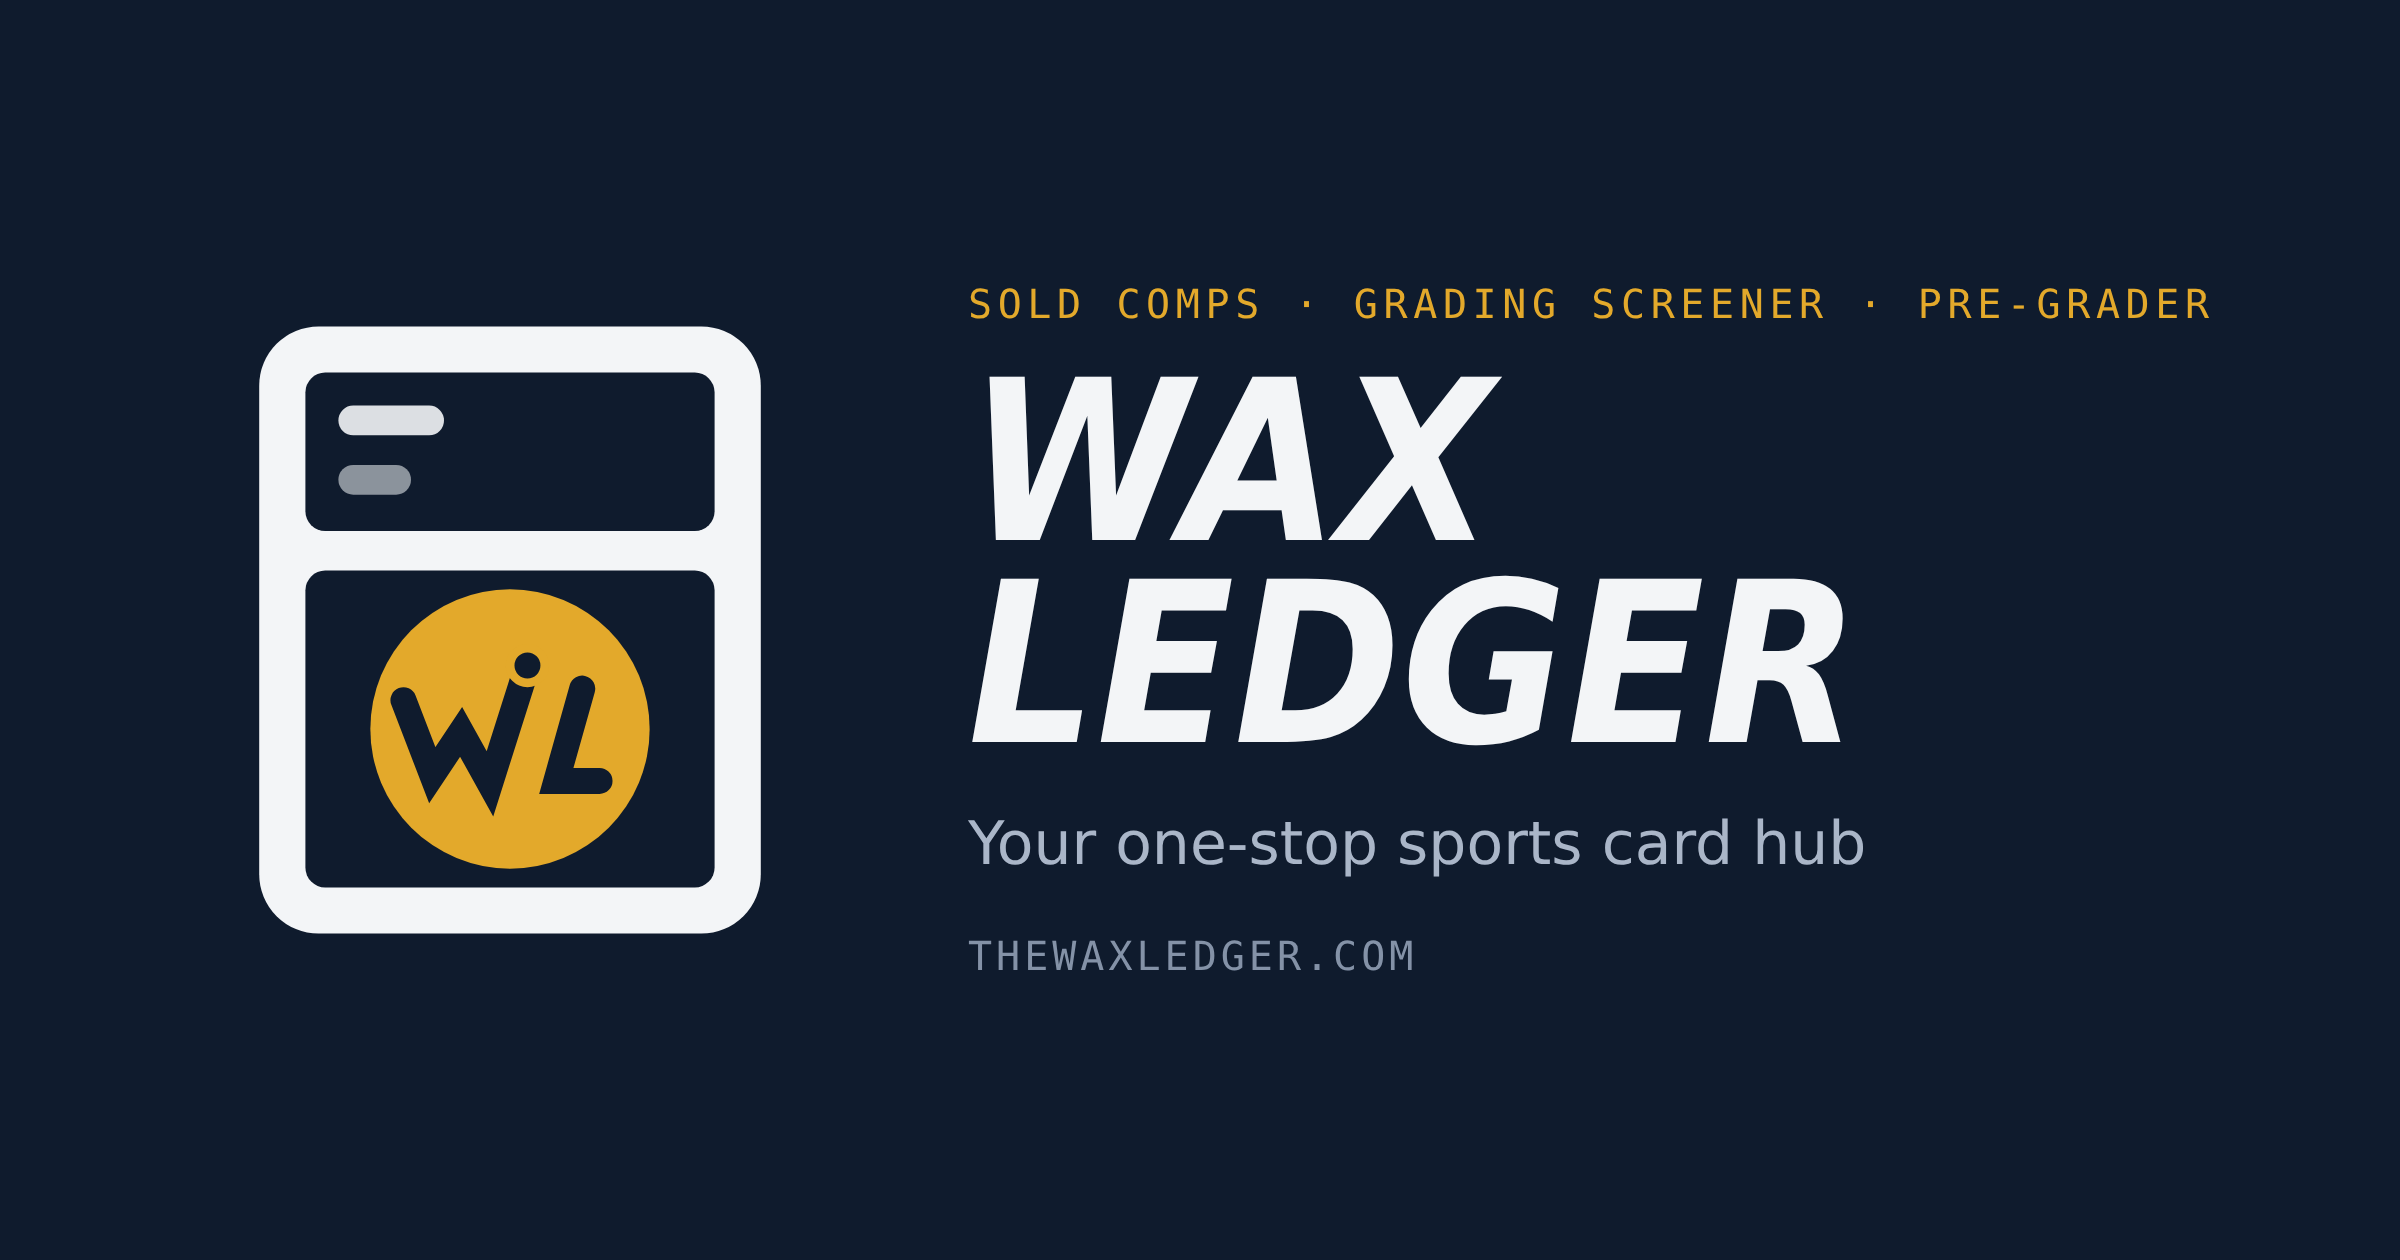
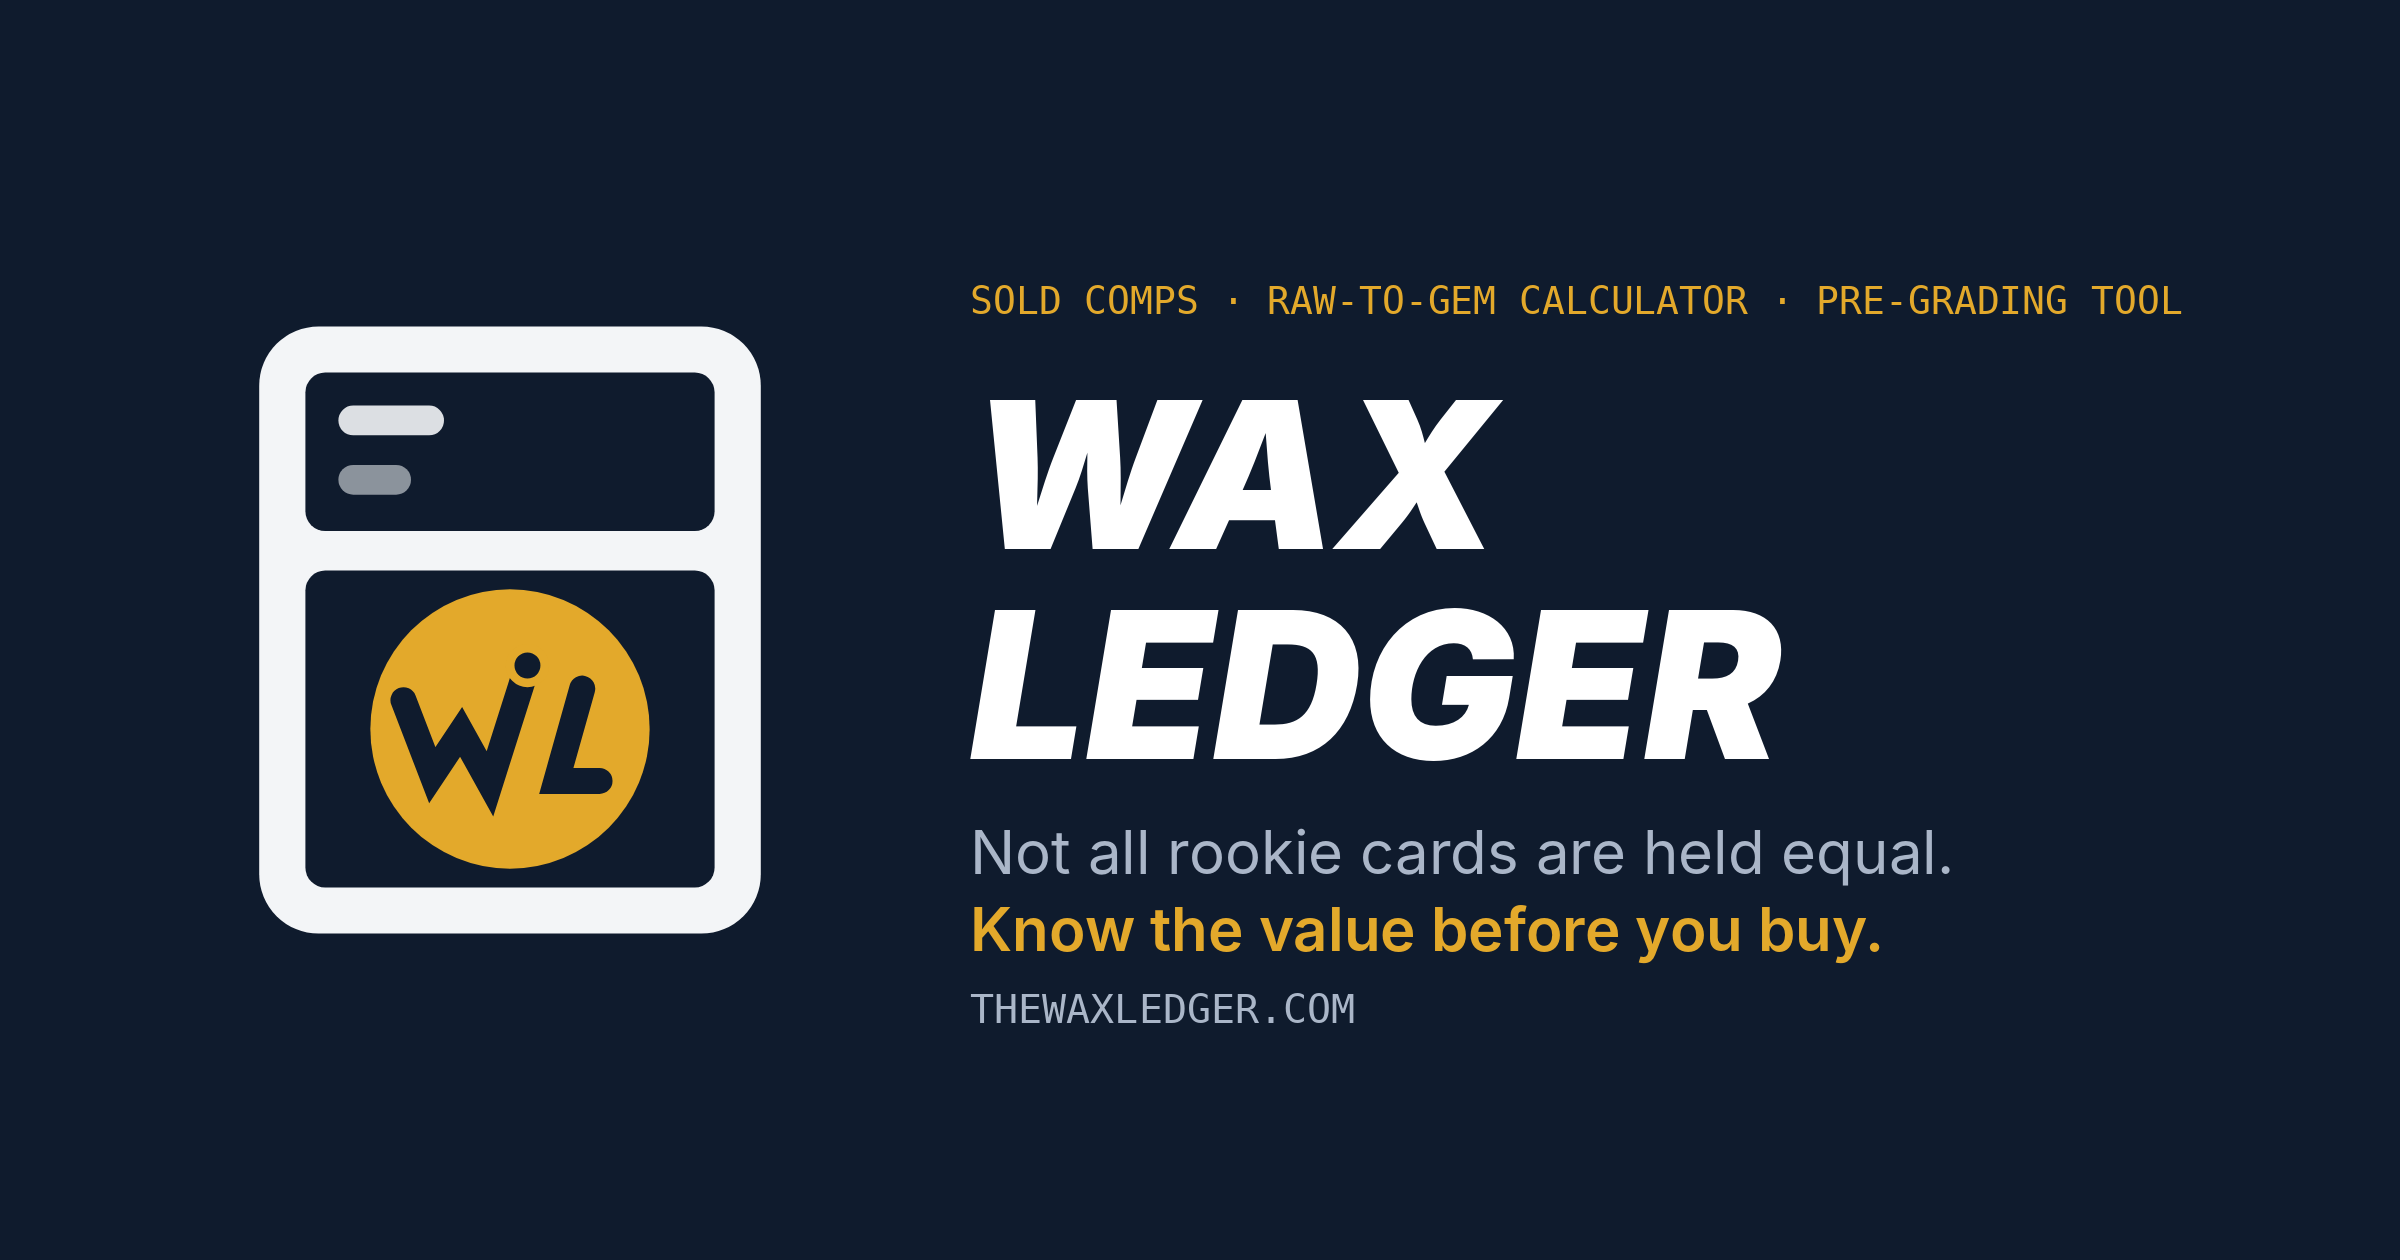
Tagline: "Not all rookie cards are held equal. Know the value before you buy."
- Hero h1 (two lines, second in gold), h1 size tightened for the longer line; OG and Twitter descriptions and the
  OG image redrawn with the new tagline and the current tool names.
- Chrome vs Chrome Update social image: last row removed (Aidan).

Claude-Session: https://claude.ai/code/session_01TnUKq6V3CGziVKCMggmfJU

Changed region(s): [[0.4062, 0.2786, 0.7812, 0.619], [0.4062, 0.65, 0.8125, 0.8357], [0.4062, 0.2167, 0.9375, 0.2476]]

diff --git a/public/index.html b/public/index.html
@@ -15,16 +15,16 @@
 <meta property="og:type" content="website">
 <meta property="og:site_name" content="Wax Ledger">
 <meta property="og:title" content="Wax Ledger">
-<meta property="og:description" content="Your one-stop sports card hub. Sold comps, a raw-to-gem calculator on real sales, a pre-grading tool that runs in your browser, and the release calendar.">
+<meta property="og:description" content="Not all rookie cards are held equal. Know the value before you buy: sold comps, a Raw-to-Gem Calculator on real PSA sales, a Pre-Grading Tool that runs in your browser, and the release calendar.">
 <meta property="og:url" content="https://thewaxledger.com/">
 <meta property="og:image" content="https://thewaxledger.com/og-image.png">
 <meta property="og:image:width" content="2400">
 <meta property="og:image:height" content="1260">
-<meta property="og:image:alt" content="Wax Ledger logo with the tagline Your one-stop sports card hub">
+<meta property="og:image:alt" content="Wax Ledger logo with the tagline Not all rookie cards are held equal. Know the value before you buy.">
 <meta name="twitter:card" content="summary_large_image">
 <meta name="twitter:site" content="@thewaxledger">
 <meta name="twitter:title" content="Wax Ledger">
-<meta name="twitter:description" content="Your one-stop sports card hub. Sold comps, a raw-to-gem calculator on real sales, a pre-grading tool that runs in your browser, and the release calendar.">
+<meta name="twitter:description" content="Not all rookie cards are held equal. Know the value before you buy: sold comps, a Raw-to-Gem Calculator on real PSA sales, a Pre-Grading Tool that runs in your browser, and the release calendar.">
 <meta name="twitter:image" content="https://thewaxledger.com/og-image.png">
 </head>
 <body>
@@ -75,7 +75,8 @@ button,input,select{font:inherit;color:inherit}
 .eyebrow{font-family:var(--mono);font-size:11.5px;letter-spacing:.09em;text-transform:uppercase;color:var(--ink-3)}
 h1,h2,h3,p{margin:0}
 h1,h2{font-family:var(--display);text-transform:uppercase;text-wrap:balance;letter-spacing:.005em}
-h1{font-weight:800;font-size:clamp(2.6rem,6.4vw,4.4rem);line-height:.94}
+h1{font-weight:800;font-size:clamp(2.4rem,5vw,3.5rem);line-height:.96}
+h1 .h1-sub{display:inline-block;margin-top:.18em;font-size:.62em;font-weight:700;color:var(--gold)}
 h2{font-weight:700;font-size:clamp(1.7rem,3.2vw,2.15rem);line-height:1}
 h3{font-size:1rem;font-weight:600;line-height:1.3}
 .lede{color:var(--ink-2);font-size:1.05rem;max-width:56ch}
@@ -599,7 +600,7 @@ footer{border-top:1px solid var(--line);padding-block:28px 40px;color:var(--ink-
   <div class="hero">
     <div class="hero-copy">
       <p class="eyebrow">Sold comps · Raw-to-Gem Calculator · Pre-Grading Tool · Release calendar</p>
-      <h1>Your one-stop sports card hub</h1>
+      <h1>Not all rookie cards are held equal.<br><span class="h1-sub">Know the value before you buy.</span></h1>
       <p class="lede">Wax Ledger tracks sold prices, upcoming releases and the players moving the market, so every buy, sell and grading call starts from real sales.</p>
       <form class="search" id="hero-search">
         <input id="hero-q" type="search" placeholder="Search a card, e.g. Flagg Topps Chrome" aria-label="Search a card">

diff --git a/src/index.src.html b/src/index.src.html
@@ -45,7 +45,8 @@ button,input,select{font:inherit;color:inherit}
 .eyebrow{font-family:var(--mono);font-size:11.5px;letter-spacing:.09em;text-transform:uppercase;color:var(--ink-3)}
 h1,h2,h3,p{margin:0}
 h1,h2{font-family:var(--display);text-transform:uppercase;text-wrap:balance;letter-spacing:.005em}
-h1{font-weight:800;font-size:clamp(2.6rem,6.4vw,4.4rem);line-height:.94}
+h1{font-weight:800;font-size:clamp(2.4rem,5vw,3.5rem);line-height:.96}
+h1 .h1-sub{display:inline-block;margin-top:.18em;font-size:.62em;font-weight:700;color:var(--gold)}
 h2{font-weight:700;font-size:clamp(1.7rem,3.2vw,2.15rem);line-height:1}
 h3{font-size:1rem;font-weight:600;line-height:1.3}
 .lede{color:var(--ink-2);font-size:1.05rem;max-width:56ch}
@@ -569,7 +570,7 @@ footer{border-top:1px solid var(--line);padding-block:28px 40px;color:var(--ink-
   <div class="hero">
     <div class="hero-copy">
       <p class="eyebrow">Sold comps · Raw-to-Gem Calculator · Pre-Grading Tool · Release calendar</p>
-      <h1>Your one-stop sports card hub</h1>
+      <h1>Not all rookie cards are held equal.<br><span class="h1-sub">Know the value before you buy.</span></h1>
       <p class="lede">Wax Ledger tracks sold prices, upcoming releases and the players moving the market, so every buy, sell and grading call starts from real sales.</p>
       <form class="search" id="hero-search">
         <input id="hero-q" type="search" placeholder="Search a card, e.g. Flagg Topps Chrome" aria-label="Search a card">

diff --git a/tools/build.py b/tools/build.py
@@ -14,16 +14,16 @@ META='''
 <meta property="og:type" content="website">
 <meta property="og:site_name" content="Wax Ledger">
 <meta property="og:title" content="Wax Ledger">
-<meta property="og:description" content="Your one-stop sports card hub. Sold comps, a raw-to-gem calculator on real sales, a pre-grading tool that runs in your browser, and the release calendar.">
+<meta property="og:description" content="Not all rookie cards are held equal. Know the value before you buy: sold comps, a Raw-to-Gem Calculator on real PSA sales, a Pre-Grading Tool that runs in your browser, and the release calendar.">
 <meta property="og:url" content="https://thewaxledger.com/">
 <meta property="og:image" content="https://thewaxledger.com/og-image.png">
 <meta property="og:image:width" content="2400">
 <meta property="og:image:height" content="1260">
-<meta property="og:image:alt" content="Wax Ledger logo with the tagline Your one-stop sports card hub">
+<meta property="og:image:alt" content="Wax Ledger logo with the tagline Not all rookie cards are held equal. Know the value before you buy.">
 <meta name="twitter:card" content="summary_large_image">
 <meta name="twitter:site" content="@thewaxledger">
 <meta name="twitter:title" content="Wax Ledger">
-<meta name="twitter:description" content="Your one-stop sports card hub. Sold comps, a raw-to-gem calculator on real sales, a pre-grading tool that runs in your browser, and the release calendar.">
+<meta name="twitter:description" content="Not all rookie cards are held equal. Know the value before you buy: sold comps, a Raw-to-Gem Calculator on real PSA sales, a Pre-Grading Tool that runs in your browser, and the release calendar.">
 <meta name="twitter:image" content="https://thewaxledger.com/og-image.png">'''
 head='''<!doctype html>
 <html lang="en">
